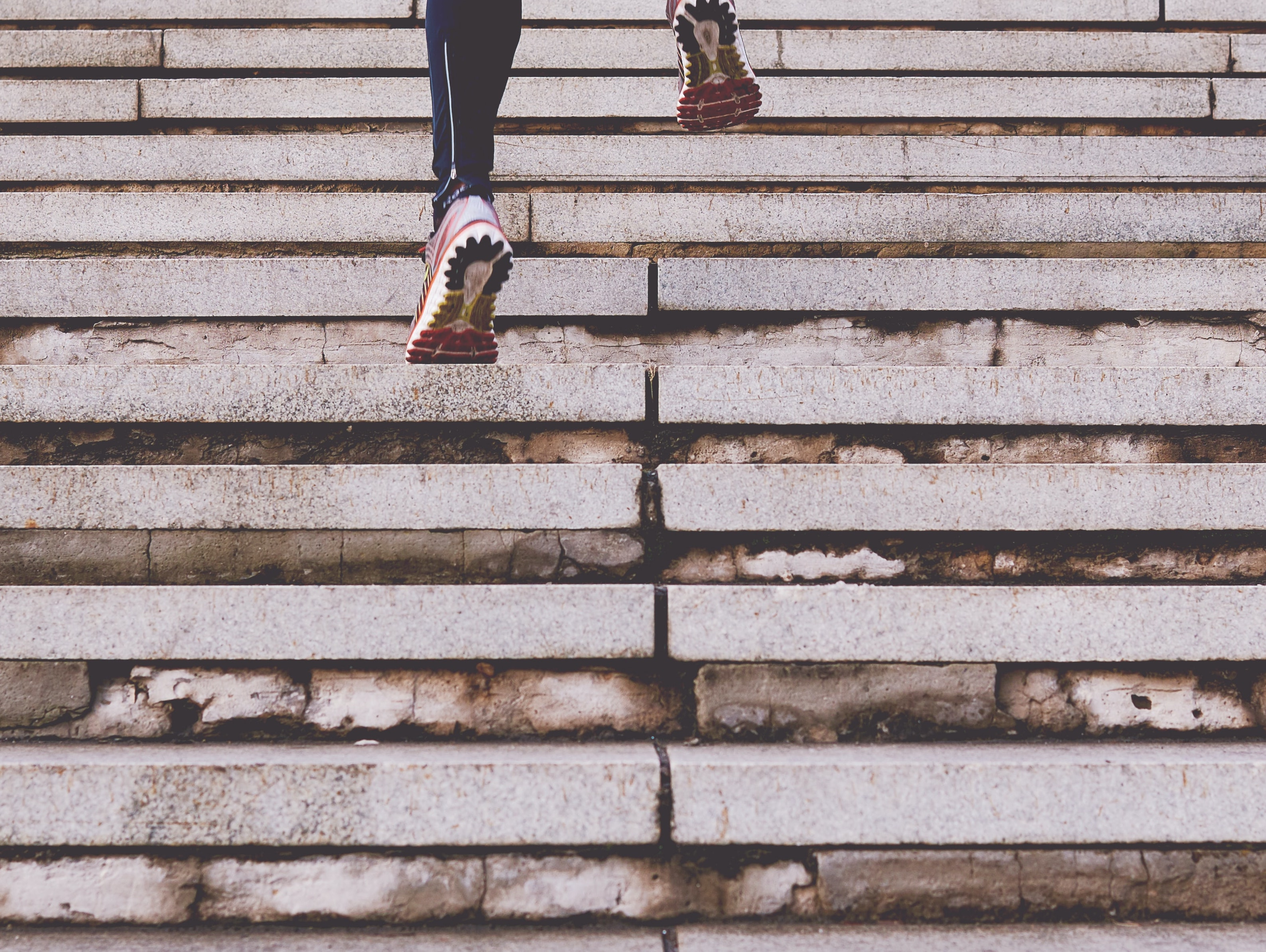
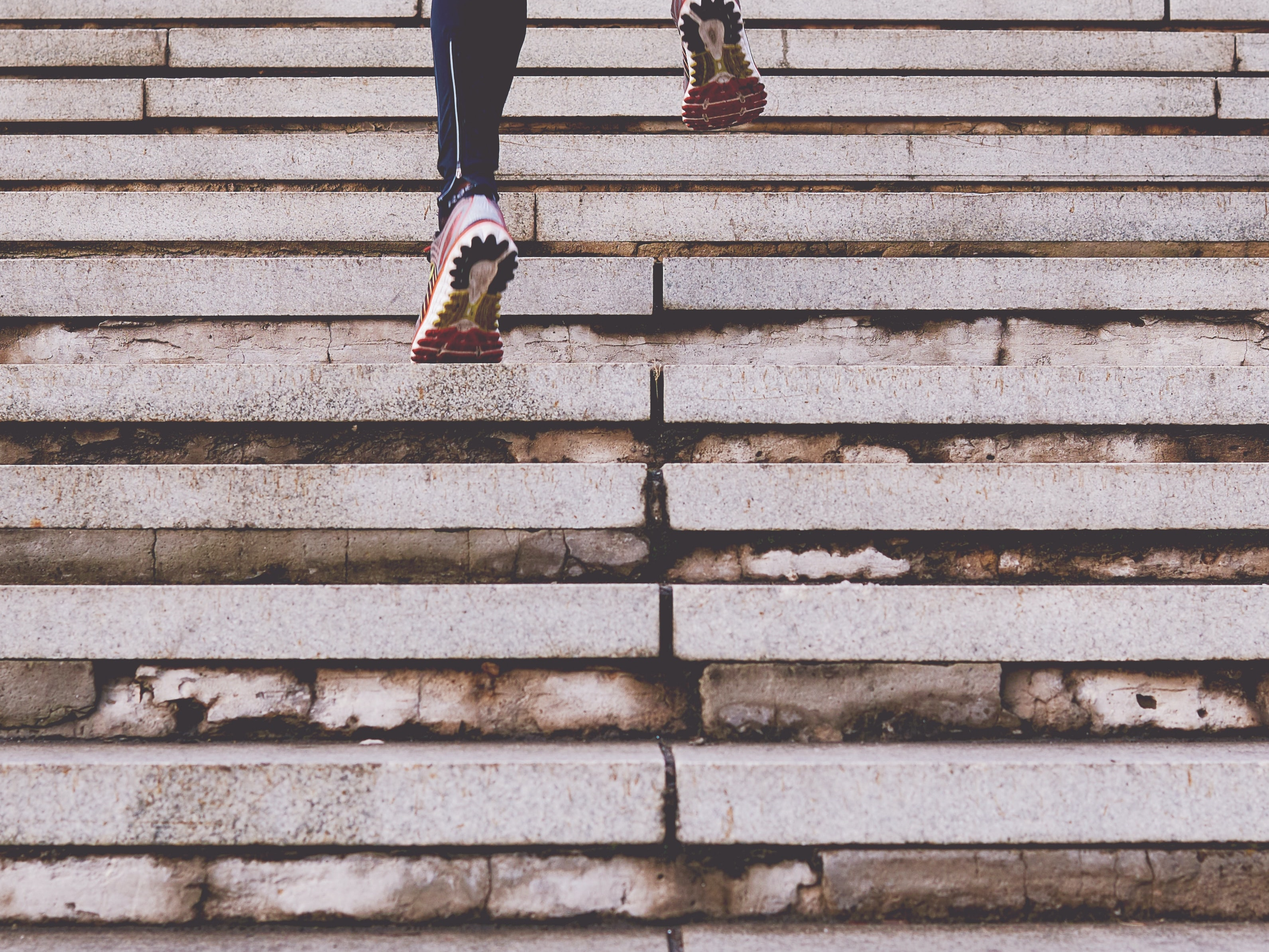
modify about page add space

diff --git a/client/src/components/pages/whoAmI/WhoAmI.js b/client/src/components/pages/whoAmI/WhoAmI.js
@@ -1,9 +1,10 @@
 import React from 'react'
-import styled from 'styled-components'
+import styled, { css } from 'styled-components'
 import Container from '../../cors/Container'
 import { device } from '../../cors/ResponsiveSettings'
 import categories from '../home/categoriesContent'
-import servicesStairs from '../../../assets/images/servicesStairs.jpg'
+import servicesStairsTop from '../../../assets/images/servicesStairsTop.jpg'
+import servicesStairsBottom from '../../../assets/images/servicesStairsBottom.jpg'
 
 
 
@@ -13,14 +14,18 @@ const WhoAmI = ({ element }) => {
   return (
     <div ref={element}>
 
-      <WrapperFP bgImg={servicesStairs}>
-        <ContentWrapper>
+      <Wrapper bgImg={servicesStairsTop}>
+        <ContentWrapper textBottom>
           <p>{category.content1}</p>
           <p>{category.content2}</p>
+        </ContentWrapper>
+      </Wrapper>
+      <Wrapper bgImg={servicesStairsBottom}>
+        <ContentWrapper textTop>
           <p>{category.content3}</p>
           <p>{category.content4}</p>
         </ContentWrapper>
-      </WrapperFP>
+      </Wrapper>
 
     </div>
   )
@@ -28,20 +33,19 @@ const WhoAmI = ({ element }) => {
 
 export default WhoAmI
 
-const WrapperFP = styled.div`
+const Wrapper = styled.div`
   width:100vw;
   height:100vh;
   background-image: url(".${props => props.bgImg}");
   background-size:cover;
-  background-color:black;
+  /* background-color:black; */
   opacity:0.8;
   background-position:50%; 
   color:white;
   display:flex;
   flex-direction:column;
   align-items:center;
-  justify-content:center;
-    &&::before{
+    &&::before::after{
     content: "";
     position: absolute;
     top: 0px;
@@ -51,17 +55,25 @@ const WrapperFP = styled.div`
     background-color: rgba(0,0,0,0.25);
   }
 
-
 `
 
 const ContentWrapper = styled(Container)`
-   font-size:1rem;
+   font-size:1.25rem;
    padding:2rem 1rem 1rem 1rem;
-   justify-content: space-evenly;
    background-color:black;
    font-weight:500;
    flex-wrap:nowrap;
   opacity:0.8;
+  ${props =>
+    props.textBottom &&
+    css`
+    justify-content:end;
+  `}
+  ${props =>
+    props.textTop &&
+    css`
+    justify-content:start;
+      `}
    @media ${device.tablet} {
      font-size:1.5rem;
      padding: 4rem;

diff --git a/client/src/components/pages/home/categoriesContent.js b/client/src/components/pages/home/categoriesContent.js
@@ -5,7 +5,7 @@ import pricesRaw from '../../../assets/images/pricesRaw.jpg'
 const categories = {
   about: {
     title: 'Qui suis-je ?',
-    content1: `Passionné de sport depuis l'enfance, avec notamment la pratique du football et du tennis en compétition, j'ai toujours cherché à donner le meilleur de moi même dans chaque discipline. Après avoir été éducateur en club de football et en club de tennis je me suis tourné vers la musculation et le fitness ...`,
+    content1: `Passionné de sport depuis l'enfance, avec notamment la pratique du football et du tennis en compétition, j'ai toujours cherché à donner le meilleur de moi même dans chaque discipline. Après avoir été éducateur en club de football et en club de tennis je me suis tourné vers la musculation et le fitness.`,
     content2: `Diplomé d'Etat depuis presque 1 an, j'accompagne mes clients avec la plus grande rigueur et le plus grand professionnalisme, qu'ils aient un objectif de perte de poids, de prise de muscle ou tout simplement de se remettre au sport. Passionné de tennis et de football depuis mon plus jeune âge, j'ai plus tard découvert le monde du fitness et de la musculation, et j'en ai fait mon métier.`,
     content3: `Ma soif d'apprendre et de vous donner le meilleur me poussent à constamment développer mes compétences et me tenir au courant des dernières avancées dans le sport et la musculation en particulier.`,
     content4: `Mes différentes expériences aussi bien au niveau de l'encadrement de personnes que de la pratique du sport me permettent de vous proposer un plan d'entraînement et un suivi personnalisé adapté à vos besoins, à vos attentes mais aussi à vos contraintes et emploi du temps.`,

diff --git a/server.js b/server.js
@@ -1,5 +1,6 @@
 require('dotenv').config();
 const express = require('express');
+const path = require('path');
 const bodyParser = require('body-parser');
 const cors = require('cors');
 const passport = require('passport');
@@ -24,6 +25,16 @@ server.use(
     exposedHeaders: ['Content-Length', 'xAuth']
   })
 );
+
+if (process.env.NODE_ENV === 'production') {
+  // Serve any static files
+  server.use(express.static(path.join(__dirname, 'client/build')));
+  // Handle React routing, return all requests to React app
+  server.get('/*', (req, res) => {
+    res.sendFile(path.join(__dirname, 'client/build', 'index.html'));
+  });
+}
+
 
 server.use('/api/src/assets', express.static('src/assets'));
 server.use('/api', routes);

diff --git a/client/src/components/pages/home/Blog.js b/client/src/components/pages/home/Blog.js
@@ -1,7 +1,6 @@
 import React, { useContext } from 'react'
 import styled from 'styled-components'
 import Container from '../../cors/Container'
-import ArticleCard from './ArticleCard'
 import { device } from '../../cors/ResponsiveSettings'
 import { BlogContext } from '../../../context/BlogContext'
 import BlogSlider from './BlogSlider'

diff --git a/client/src/components/footer/Footer.js b/client/src/components/footer/Footer.js
@@ -1,7 +1,6 @@
-import React, { useEffect } from 'react'
+import React from 'react'
 import styled from 'styled-components'
 import { Instagram, Facebook, Google, Linkedin } from 'grommet-icons'
-import StyledLink from '../cors/StyledLink'
 import { device } from '../cors/ResponsiveSettings'
 
 

diff --git a/client/src/components/pages/home/Review.js b/client/src/components/pages/home/Review.js
@@ -1,7 +1,6 @@
 import React from 'react'
 import styled from 'styled-components'
 import Container from '../../cors/Container'
-import reviewsContent from './reviewsContent'
 import { device } from '../../cors/ResponsiveSettings'
 import ReviewSlide from './ReviewSlide'
 
